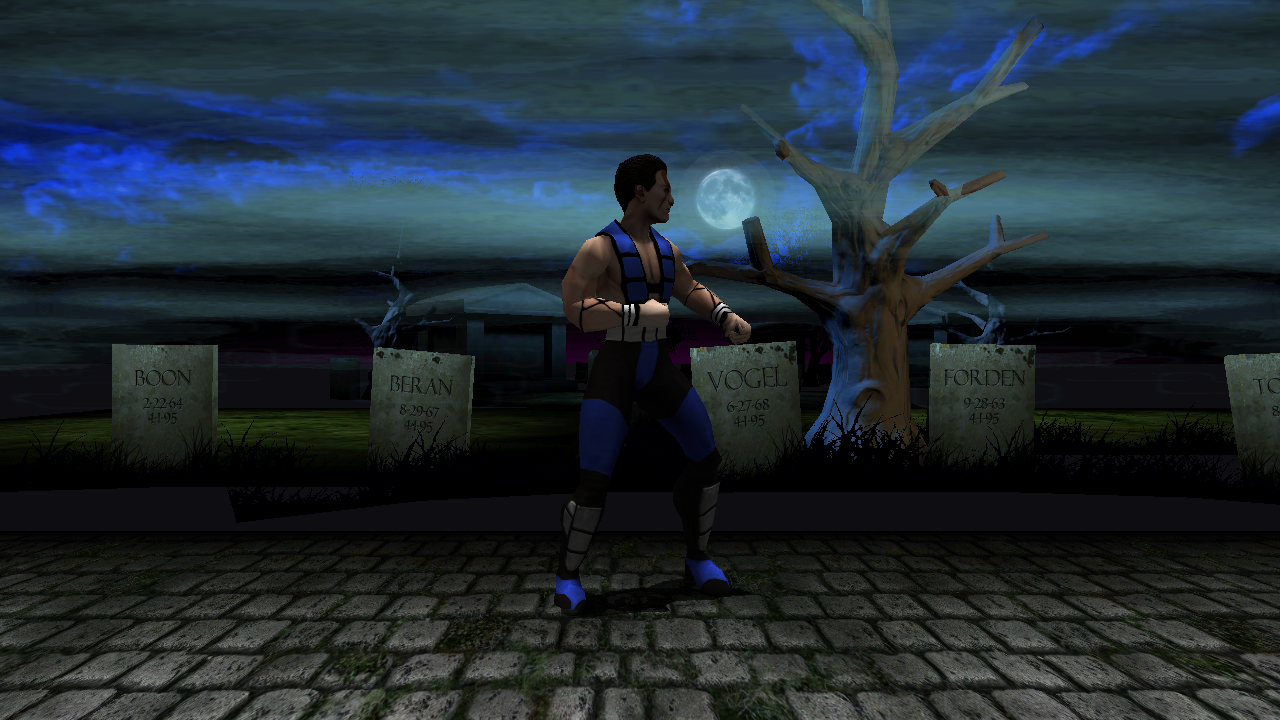
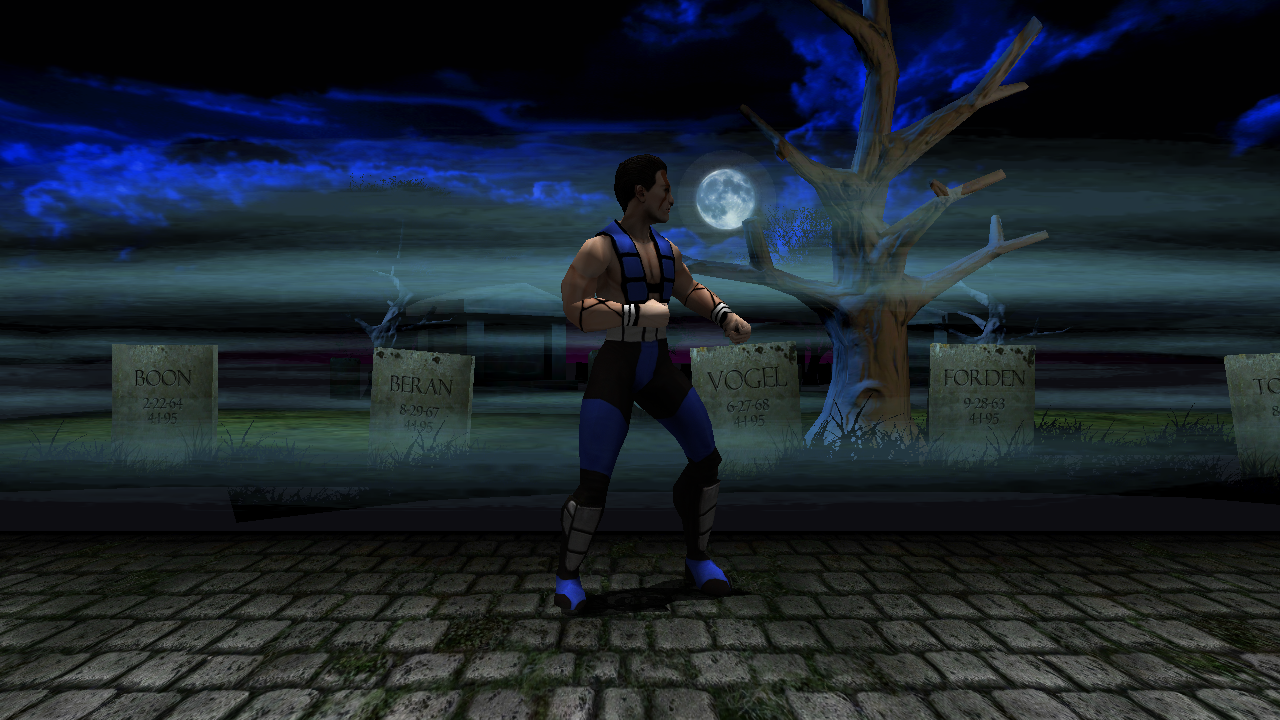
The mist instances come from `.events`, and they are not identical
Placing the seven mist bands by translation alone stacked seven identical
sheets on top of each other and read as a grey wash over the whole screen. The
retail game shows several bands of different thickness, some drifting the other
way.

`GRAVEYARD_LEVEL_SCENE.events` holds exactly seven tracks, all named `gymist1`,
and each entry carries a 3x3 and a translation in 12.12 fixed point (4096 =
1.0). The translations are byte-for-byte the positions of the seven
EVENT_gymist* nodes in the stage's `.scene` -- two independent files agreeing to
the last digit, which is what makes either one trustworthy. But the 3x3 is not
the identity: the Y scales run 0.93, 0.69, 0.64, 0.55 and 0.36, and two tracks
carry a NEGATIVE X, mirroring those bands. That is the whole difference.

So runtime/lime/events.c reads the format -- strides from LIME_LoadEvents, not
from a file walk: 268-byte track header (0x000a4934 builds the entry base as
cursor+0x10c), 56-byte entries (0x000a49be advances by n*64 - n*8), numEntries
at +0x108 (0x000a490e). The demo takes the effect's file group from the track
name upper-cased, so `gymist1` loads GYMIST1.meshset and GYMIST1.scene, and it
generalises to any stage that names a different effect.

Two measurements that closed off the alternatives before this: ALPHA_GYMIST1 is
PVRTC 4bpp with alpha, and it genuinely tops out at alpha 94 of 255 -- our
decoder's 3-bit expansion (a<<5)|(a<<2)|(a>>1) gives 255 at a=7, so the
[…]

diff --git a/runtime/demo.c b/runtime/demo.c
@@ -39,6 +39,7 @@
 #include "platform/gl.h"
 #include "lime/meshset.h"
 #include "lime/scene.h"
+#include "lime/events.h"
 #include "lime/skin.h"
 #include "lime/light.h"
 #include "lime/pvr.h"
@@ -138,6 +139,9 @@ static int g_list = 0;
  * inspection aid -- telling "this surface is black" from "there is no surface
  * here" is otherwise guesswork. */
 static const char *g_only = NULL;
+
+/* The stage's file stem, for its sibling `.events`. */
+static const char *g_stage_name = "";
 
 /* How far the stage actually reaches, in world units, measured at load.
  *
@@ -271,6 +275,7 @@ static int stage_load(const char *res_dir, const char *name)
     }
 
     g_stage.loaded = 1;
+    g_stage_name = name;
     if (g_stage.has_scene) mist_load(res_dir);
     printf("  stage: %s, %d meshes", name, g_stage.ms.num_meshes);
     if (g_stage.has_scene)
@@ -578,7 +583,7 @@ typedef struct {
     LimeScene   sc;
     GLuint      tex;
     int         loaded;
-    float       pos[MAX_MIST][3];
+    float       xform[MAX_MIST][16];    /* one per instance, from `.events` */
     int         count;
 } MistFx;
 
@@ -591,44 +596,57 @@ static float g_mist_hz = 30.0f;
 static void mist_load(const char *res_dir)
 {
     char path[1024];
-    int32_t n, f;
+    LimeEvents ev;
+    int32_t i;
+    char stem[128];
+    size_t n;
 
-    /* the spawn points, from the STAGE's scene */
-    for (n = 0; n < g_stage.sc.num_nodes && g_mist.count < MAX_MIST; n++) {
-        const LimeSceneNode *nd = &g_stage.sc.nodes[n];
-        if (!is_event_marker(nd->name)) continue;
-        if (!strstr(nd->name, "mist") && !strstr(nd->name, "MIST")) continue;
-        if (!nd->stream || !nd->keys) continue;
+    /* **The instances come from the `.events` file, not from the markers.**
+     *
+     * The stage's EVENT_gymist* scene nodes give the seven positions, and they
+     * agree with this file to the last digit -- which is what makes either one
+     * trustworthy. But `.events` carries more than a position: each track holds
+     * a 3x3 and a translation in 12.12 fixed point, and the 3x3 is NOT the
+     * identity. The Y scales run 0.93, 0.69, 0.64, 0.55, 0.36 and two tracks
+     * carry a NEGATIVE X.
+     *
+     * That is the difference between one uniform sheet of fog and what the
+     * game actually shows: seven bands of different thickness, two of them
+     * mirrored so they drift the other way. Placing the instances by
+     * translation alone -- which this demo did first -- stacks seven identical
+     * bands on top of each other and looks like a grey wash. */
+    snprintf(path, sizeof(path), "%s/%s.events", res_dir, g_stage_name);
+    if (!lime_events_load(path, &ev)) return;
 
-        /* visible on one frame only, so scan for it rather than sampling 0 */
-        for (f = 0; f < g_stage.sc.num_frames; f++) {
-            if (nd->stream[f] == LIME_SCENE_HIDDEN) continue;
-            {
-                const LimeSceneKey *k = &nd->keys[nd->stream[f]];
-                const float *t;
-                if (k->palette_index >= g_stage.sc.palette_size) break;
-                t = g_stage.sc.palette[k->palette_index].translation;
-                g_mist.pos[g_mist.count][0] = t[0];
-                g_mist.pos[g_mist.count][1] = t[1];
-                g_mist.pos[g_mist.count][2] = t[2];
-                g_mist.count++;
-            }
-            break;
-        }
+    for (i = 0; i < ev.count && g_mist.count < MAX_MIST; i++) {
+        if (!ev.tracks[i].name[0]) continue;
+        lime_event_matrix(&ev.tracks[i], g_mist.xform[g_mist.count]);
+        g_mist.count++;
     }
-    if (g_mist.count == 0) return;
+    if (g_mist.count == 0) { lime_events_free(&ev); return; }
 
-    snprintf(path, sizeof(path), "%s/GYMIST1.meshset", res_dir);
-    if (!lime_meshset_load(path, &g_mist.ms)) return;
-    snprintf(path, sizeof(path), "%s/GYMIST1.scene", res_dir);
+    /* The track name is the effect's file group, upper-cased. */
+    n = strlen(ev.tracks[0].name);
+    if (n >= sizeof(stem)) n = sizeof(stem) - 1;
+    for (i = 0; i < (int32_t)n; i++) {
+        char c = ev.tracks[0].name[i];
+        stem[i] = (c >= 'a' && c <= 'z') ? (char)(c - 'a' + 'A') : c;
+    }
+    stem[n] = '\0';
+    lime_events_free(&ev);
+
+    snprintf(path, sizeof(path), "%s/%s.meshset", res_dir, stem);
+    if (!lime_meshset_load(path, &g_mist.ms)) { g_mist.count = 0; return; }
+    snprintf(path, sizeof(path), "%s/%s.scene", res_dir, stem);
     if (!lime_scene_load(path, &g_mist.sc, stage_find_mesh, &g_mist.ms)) {
         lime_meshset_free(&g_mist.ms);
+        g_mist.count = 0;
         return;
     }
     g_mist.tex = upload(res_dir, g_mist.ms.meshes[0].texture);
     g_mist.loaded = 1;
-    printf("  mist: %d spawn points, %d frames, texture %s\n",
-           g_mist.count, g_mist.sc.num_frames,
+    printf("  effect: %s x%d instances, %d frames, texture %s\n",
+           stem, g_mist.count, g_mist.sc.num_frames,
            g_mist.tex ? g_mist.ms.meshes[0].texture : "MISSING");
 }
 
@@ -675,8 +693,8 @@ static void mist_draw(double now)
 
         for (i = 0; i < g_mist.count; i++) {
             glPushMatrix();
-            glTranslatef(g_mist.pos[i][0], g_mist.pos[i][1], g_mist.pos[i][2]);
-            glMultMatrixf(mat);
+            glMultMatrixf(g_mist.xform[i]);   /* the instance, from `.events` */
+            glMultMatrixf(mat);               /* its own animated QST */
             stage_draw_mesh(m);
             glPopMatrix();
         }

diff --git a/runtime/lime/events.c b/runtime/lime/events.c
@@ -1,0 +1,108 @@
+/* events.c -- see events.h and docs/EVENTS-FORMAT.md. */
+#include "events.h"
+
+#include <stdio.h>
+#include <stdlib.h>
+#include <string.h>
+
+/* Every stride here comes from the loader, not from a file walk:
+ *   - the track header is 268 bytes  (0x000a4934 builds the entry base as
+ *     (cursor+0x5c)+0xb0 = cursor+0x10c)
+ *   - an entry is 56 bytes           (0x000a49be advances by n*64 - n*8)
+ *   - numEntries lives at +0x108     (0x000a490e reads [r5,#0x9c], r5 = +0x6c)
+ */
+#define TRACK_HEADER 268
+#define ENTRY_SIZE    56
+#define OFF_NAME    0x000
+#define OFF_SLOT    0x0c8
+#define OFF_NENT    0x108
+
+/* 12.12: 4096 is 1.0. Graveyard's identity rows read 4096 and 4095, which is
+ * the exporter rounding, not two different scales. */
+#define FIXED  4096.0f
+
+static int32_t rd_i32(const uint8_t *p)
+{
+    return (int32_t)((uint32_t)p[0] | ((uint32_t)p[1] << 8) |
+                     ((uint32_t)p[2] << 16) | ((uint32_t)p[3] << 24));
+}
+
+bool lime_events_load(const char *path, LimeEvents *out)
+{
+    FILE *f;
+    uint8_t *d;
+    long size, off;
+    int32_t n, i, k;
+
+    memset(out, 0, sizeof(*out));
+
+    f = fopen(path, "rb");
+    if (!f) return false;
+    if (fseek(f, 0, SEEK_END) != 0) { fclose(f); return false; }
+    size = ftell(f);
+    rewind(f);
+    if (size < 4) { fclose(f); return false; }
+
+    d = (uint8_t *)malloc((size_t)size);
+    if (!d) { fclose(f); return false; }
+    if (fread(d, 1, (size_t)size, f) != (size_t)size) {
+        free(d); fclose(f); return false;
+    }
+    fclose(f);
+
+    n = rd_i32(d);
+    if (n <= 0 || n > 100000) { free(d); return false; }
+
+    out->tracks = (LimeEventTrack *)calloc((size_t)n, sizeof(LimeEventTrack));
+    if (!out->tracks) { free(d); return false; }
+
+    off = 4;
+    for (i = 0; i < n; i++) {
+        LimeEventTrack *tr = &out->tracks[i];
+        int32_t nent;
+        const uint8_t *blob;
+
+        if (off + TRACK_HEADER > size) { lime_events_free(out); free(d); return false; }
+
+        memcpy(tr->name, d + off + OFF_NAME, 64);
+        memcpy(tr->slot, d + off + OFF_SLOT, 64);
+        tr->name[63] = tr->slot[63] = '\0';
+        nent = rd_i32(d + off + OFF_NENT);
+        off += TRACK_HEADER;
+
+        if (nent < 0 || off + (long)nent * ENTRY_SIZE > size) {
+            lime_events_free(out); free(d); return false;
+        }
+
+        /* The transform is in the FIRST entry, after its two leading int32s:
+         * twelve more int32s, nine of 3x3 then three of translation. */
+        if (nent > 0) {
+            blob = d + off + 8;
+            for (k = 0; k < 9; k++) tr->m[k] = (float)rd_i32(blob + k * 4) / FIXED;
+            for (k = 0; k < 3; k++) tr->t[k] = (float)rd_i32(blob + 36 + k * 4) / FIXED;
+        } else {
+            tr->m[0] = tr->m[4] = tr->m[8] = 1.0f;
+        }
+        off += (long)nent * ENTRY_SIZE;
+        out->count = i + 1;
+    }
+
+    free(d);
+    return true;
+}
+
+void lime_event_matrix(const LimeEventTrack *tr, float *dst)
+{
+    /* row-major 3x3 into GL's column-major 4x4 */
+    dst[0]  = tr->m[0]; dst[1]  = tr->m[1]; dst[2]  = tr->m[2]; dst[3]  = 0.0f;
+    dst[4]  = tr->m[3]; dst[5]  = tr->m[4]; dst[6]  = tr->m[5]; dst[7]  = 0.0f;
+    dst[8]  = tr->m[6]; dst[9]  = tr->m[7]; dst[10] = tr->m[8]; dst[11] = 0.0f;
+    dst[12] = tr->t[0]; dst[13] = tr->t[1]; dst[14] = tr->t[2]; dst[15] = 1.0f;
+}
+
+void lime_events_free(LimeEvents *e)
+{
+    if (!e) return;
+    free(e->tracks);
+    memset(e, 0, sizeof(*e));
+}

diff --git a/runtime/lime/events.h b/runtime/lime/events.h
@@ -1,0 +1,42 @@
+/*
+ * events.h -- the `.events` effect tracks, for the native runtime.
+ *
+ * Format from docs/EVENTS-FORMAT.md, derived from LIME_LoadEvents
+ * (0x000a477c). This file reads the one part the port needs today: each track
+ * names an effect and carries the TRANSFORM at which to place an instance of
+ * it.
+ *
+ * Graveyard's file holds seven tracks, all named `gymist1`, and their
+ * translations are byte-for-byte the positions of the seven EVENT_gymist*
+ * nodes in the stage's `.scene`. Two independent files agreeing to the last
+ * digit is what makes this a reading rather than a guess -- and the `.events`
+ * file carries more: a 3x3 whose Y scale differs per instance (0.93, 0.69,
+ * 0.64, 0.55, 0.36) and whose X is NEGATIVE on two of them. That is what turns
+ * one uniform sheet of mist into several bands of different thickness drifting
+ * in opposite directions.
+ */
+#ifndef LIME_EVENTS_H
+#define LIME_EVENTS_H
+
+#include <stdbool.h>
+#include <stdint.h>
+
+typedef struct {
+    char  name[64];             /* the effect: "gymist1", "MUZZLEFLASH", ... */
+    char  slot[64];
+    float m[9];                 /* row-major 3x3, from 12.12 fixed point */
+    float t[3];                 /* translation, same fixed point */
+} LimeEventTrack;
+
+typedef struct {
+    LimeEventTrack *tracks;
+    int32_t         count;
+} LimeEvents;
+
+bool lime_events_load(const char *path, LimeEvents *out);
+void lime_events_free(LimeEvents *e);
+
+/* Build a column-major GL matrix from a track's 3x3 and translation. */
+void lime_event_matrix(const LimeEventTrack *tr, float *dst /* [16] */);
+
+#endif
